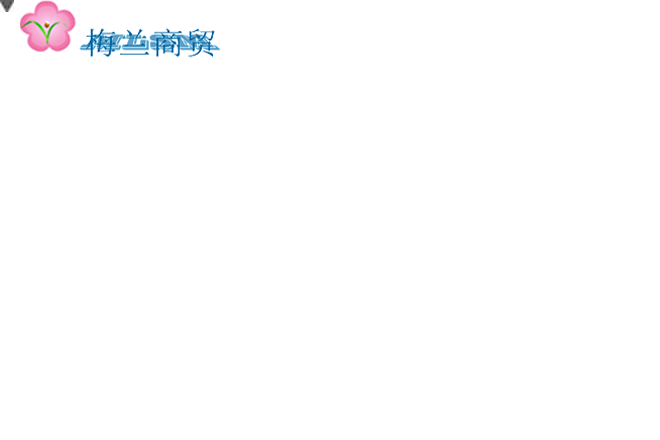
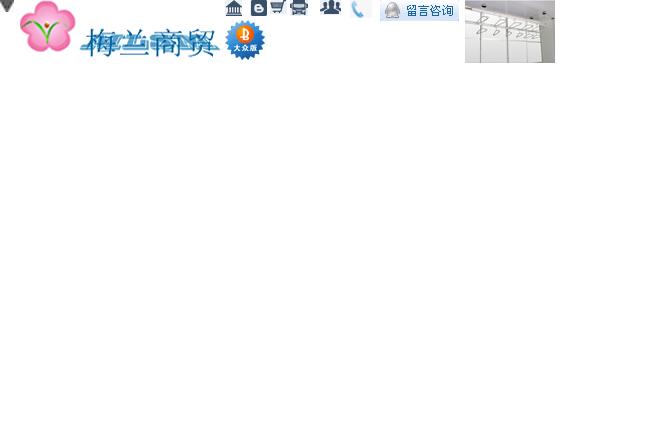
3

Changed region(s): [[0.5758, 0.0, 0.8485, 0.1477], [0.3333, 0.0, 0.5455, 0.1477]]

diff --git a/css/index.css b/css/index.css
@@ -90,3 +90,228 @@ a{
 .nav li:hover a {
 	color: white;
 }
+.banner {
+	width: 970px;
+	height: 210px;
+	margin:  0 auto;
+	margin-top: 10px;
+}
+.subnav {
+	height: 210px;
+	width: 200px;
+	margin-right: 11px;
+}
+.ad {
+	width:520px;
+	height: 210px;
+	background-color: yellow;
+}
+.message {
+	width: 230px;
+	height: 210px;
+ 
+}
+.subnav h2 {
+	font-size: 14px;
+	font-weight: bold;
+	height: 30px;
+	background-color: #0266A3;
+	color: white;
+	padding-left: 20px;
+	line-height: 30px;
+}
+#s1 {
+	display: inline-block;
+	width: 17px;
+	height: 14px;
+	background: url(../image/liu.png) -270px 0;
+}
+#s2 {
+	display: inline-block;
+	width: 17px;
+	height: 16px;
+	background: url(../image/liu.png) -225px 0;
+}
+#s3 {
+	display: inline-block;
+	width: 17px;
+	height: 16px;
+	background: url(../image/liu.png) -250px 0;
+}
+#s4 {
+	display: inline-block;
+	width: 18px;
+	height: 16px;
+	background: url(../image/liu.png) -290px 0;
+}
+#s5 {
+	display: inline-block;
+	width: 21px;
+	height: 15px;
+	background: url(../image/liu.png) -320px 0;
+}
+#s6 {
+	display: inline-block;
+	width: 16px;
+	height: 16px;
+	background: url(../image/liu.png) -350px 0;
+	vertical-align: middle;
+}
+.subnav  ul {
+	background-color: #EBF0F6;
+	height: 180px;
+}
+.subnav  li {
+	font-size: 15px;
+	padding-top: 8px;
+	margin-left: 9px;
+}
+.subnav  li a{
+	padding-left: 15px;
+}
+.message_top {
+	height: 95px;
+	border: 1px solid #DDDDDD;
+	background-color: #F7FAFF;
+	margin-bottom: 21PX;
+}
+.message_bottom{
+	height: 92px;
+	background-color: #F7F7F7;
+}
+.message_top s {
+	display: inline-block;
+	width: 41px;
+	height: 40px;
+	background: url(../image/liu.png) -225px  -20px;
+	margin: 20px 10px 0 10px ;
+}
+.message_top .fw {
+	font-weight: bold;
+	padding: 7px 0 0 18px;
+}
+.message_top .cheap {
+	font-size: 12px;
+	margin-top: 25px;
+}
+.message_bottom .findm {
+	padding-top: 11px;
+	font-size: 14px;
+	text-align: center;
+	
+}
+.message_bottom .tele {
+	text-decoration:none;
+	text-align: center;
+	margin-top: 9px;
+	color: #3F9CE0;
+}
+.message_bottom .tele s {
+	display: inline-block;
+	width: 22px;
+	height: 18px;
+	background: url(../image/liu.png) -350px 0;
+}
+.message_bottom .btn {
+	display: inline-block;
+	width: 79px;
+	height: 21px;
+	background: url(../image/liu.png) -380px 0;
+	margin-left: 75px;
+	margin-top: 9px;
+}
+.meteria {
+	width: 950px;
+	height: 34px;
+	border-top: 2px solid #C3D7E4;
+	margin: 0 auto;
+	margin-top: 14px;
+	line-height: 34px;
+	background-color: #ECF1F7;
+	font-weight: bold;
+	padding-left: 20px;
+}
+.product {
+	width: 970px;
+	height: 350px;
+	margin: 0 auto;
+	margin-top: 12px;background-color: pink;
+}
+.product .product_l {
+	width: 738px;
+	height: 350px;
+	background-color: yellow;
+}
+
+.product_l {
+	border: 1px solid #D8D8D8;
+}
+.product .product_l_top{
+	width: 712px;
+	height: 155px;
+	margin:17px 0 0 26px;
+
+}
+.product .product_l_top_1 {
+	width: 350px;
+	height:146px;
+}
+.product .product_l_top_1 .buy{
+	width: 99px;
+	height: 143px;
+}
+.product .product_l_top_1 .buy .img {
+	height: 100PX;
+	border: 1px solid #CACACA; 
+
+}
+.product .product_l_top_1 .buy .img s {
+	display: inline-block;
+	width: 90px;
+	height: 62px;
+	background: url(../image/liu.png) -465px 0;
+	margin:10px 4px 0 3px;
+}
+.product .product_l_top_1 .buy  .btn {
+	height:26px;
+	width: 99px;
+	background-color: #0A84E3;
+	color: white;
+	margin-top: 15px;
+}
+.product .product_l_top_1 .explain{
+	width: 250px;
+	height: 143px;
+}
+.product .product_l_top_1 .explain .explain_top {
+	font-size: 14px;
+	padding:10px 0 0 10px;
+}
+.product .product_l_top_1 .explain .explain_auto {
+	color: #863E01;
+	padding: 13px 0 0 15px;
+}
+.product .product_l_top_1 .explain .money {
+	padding: 15px  0 0 11px;
+}
+.product .product_l_top_1 .explain .money  span {
+	color: red;
+	font-size: 18px;
+}
+.product .product_l_top_1 .explain .money  s {
+	text-decoration: line-through;
+} 
+.product .product_l_top_1 .explain .ed {
+	font-size: 14px;
+	padding: 8px 0 0 11px;
+	color:red;
+}
+.product .product_r {
+	width: 230px;
+	height: 345px;
+	background-color: yellow;
+}
+.product_l_line {
+	margin: 0 4px 0 4px;
+	border-top: 1px solid red;
+}

diff --git a/index.html b/index.html
@@ -46,6 +46,97 @@
 			<li><a href="#">工艺美术品</a></li>
 		</ul>
 	</div>
+<!--end-->
+<!---s-banner-->
+	<div class="banner">
+		<div class="subnav  fl" >
+			<h2>商机市场</h2>
+			<ul>
+				<li><s id="s1"></s><a href="#">建筑材料</a></li>
+				<li><s id="s2"></s><a href="#">儿童安全座椅</a></li>
+				<li><s id="s3"></s><a href="#">工艺美术品</a></li>
+				<li><s id="s4"></s><a href="#">建筑材料</a></li>
+				<li><s id="s5"></s><a href="#">儿童安全座椅</a></li>
+				<li><s id="s6"></s><a href="#">工艺美术品</a></li>
+			</ul>
+		</div>
+		<div class="ad  fl"></div>
+		<div class="message  fr">
+			<div class="message_top">
+				<p class="fw">建材通大众版</p>
+				 <s class="fl"></s><p class="cheap">价格实惠，量身为预算不<br>多的供应商所设。<a href="#">了解详情</a></p>
+			</div>
+			<div class="message_bottom">
+				<p class="findm">找不到信息或发送信息遇到问题？</p>
+				<p class="tele"><s></s>0571-89938887</p>
+				<input type="button" class="btn">
+			</div>
+		</div>
+	</div>
+<!--end-->
 
+	<div class="meteria">建筑材料</div>
+	<!--juti-->
+	<div class="product">
+		<div class="product_l fl">
+			<div class="product_l_top">	
+				<div class="product_l_top_1 fl">
+					<div class="buy fl">
+						<div class="img"><s></s></div>
+						<input type="button" class="btn" value="立即购买">
+					</div>
+					<div class="explain fl">
+						<p class="explain_top">好太太晾衣架 &nbsp;铝钛合金&nbsp; 升降双杆</p>
+						<p class="explain_auto">自动换挡 &nbsp;安全耐用<br/>稳定性好 &nbsp;抗氧化强</p>
+						<p class="money"><span>239.00</span>&nbsp;<s>$386.00</s></p>
+						<p class="ed">限量99件，已售22件。</p>
+					</div>
+				</div>
+				<div class="product_l_top_1 fl">
+					<div class="buy fl">
+						<div class="img"><s></s></div>
+						<input type="button" class="btn" value="立即购买">
+					</div>
+					<div class="explain fl">
+						<p class="explain_top">好太太晾衣架 &nbsp;铝钛合金&nbsp; 升降双杆</p>
+						<p class="explain_auto">自动换挡 &nbsp;安全耐用<br>稳定性好 &nbsp;抗氧化强</p>
+						<p class="money"><span>239.00</span>&nbsp;<s>$386.00</s></p>
+						<p class="ed">限量99件，已售22件。</p>
+					</div>
+				</div>					
+				</div>
+			</div>
+			<div class="product_l_line"></div>
+			<div class="product_l_top fl">	
+				<div class="product_l_top_1 fl">
+					<div class="buy fl">
+						<div class="img"><s></s></div>
+						<input type="button" class="btn" value="立即购买">
+					</div>
+					<div class="explain fl">
+						<p class="explain_top">好太太晾衣架 &nbsp;铝钛合金&nbsp; 升降双杆</p>
+						<p class="explain_auto">自动换挡 &nbsp;安全耐用<br>稳定性好 &nbsp;抗氧化强</p>
+						<p class="money"><span>239.00</span>&nbsp;<s>$386.00</s></p>
+						<p class="ed">限量99件，已售22件。</p>
+					</div>
+				</div>
+				<div class="product_l_top_1 fl">
+					<div class="buy fl">
+						<div class="img"><s></s></div>
+						<input type="button" class="btn" value="立即购买">
+					</div>
+					<div class="explain fl">
+						<p class="explain_top">好太太晾衣架 &nbsp;铝钛合金&nbsp; 升降双杆</p>
+						<p class="explain_auto">自动换挡 &nbsp;安全耐用<br>稳定性好 &nbsp;抗氧化强</p>
+						<p class="money"><span>239.00</span>&nbsp;<s>$386.00</s></p>
+						<p class="ed">限量99件，已售22件。</p>
+					</div>
+				</div>					
+				</div>
+			</div>
+		</div>
+		<div class="product_r fr"></div>
+	</div>
+	<!--end-->
 </body>
 </html>
